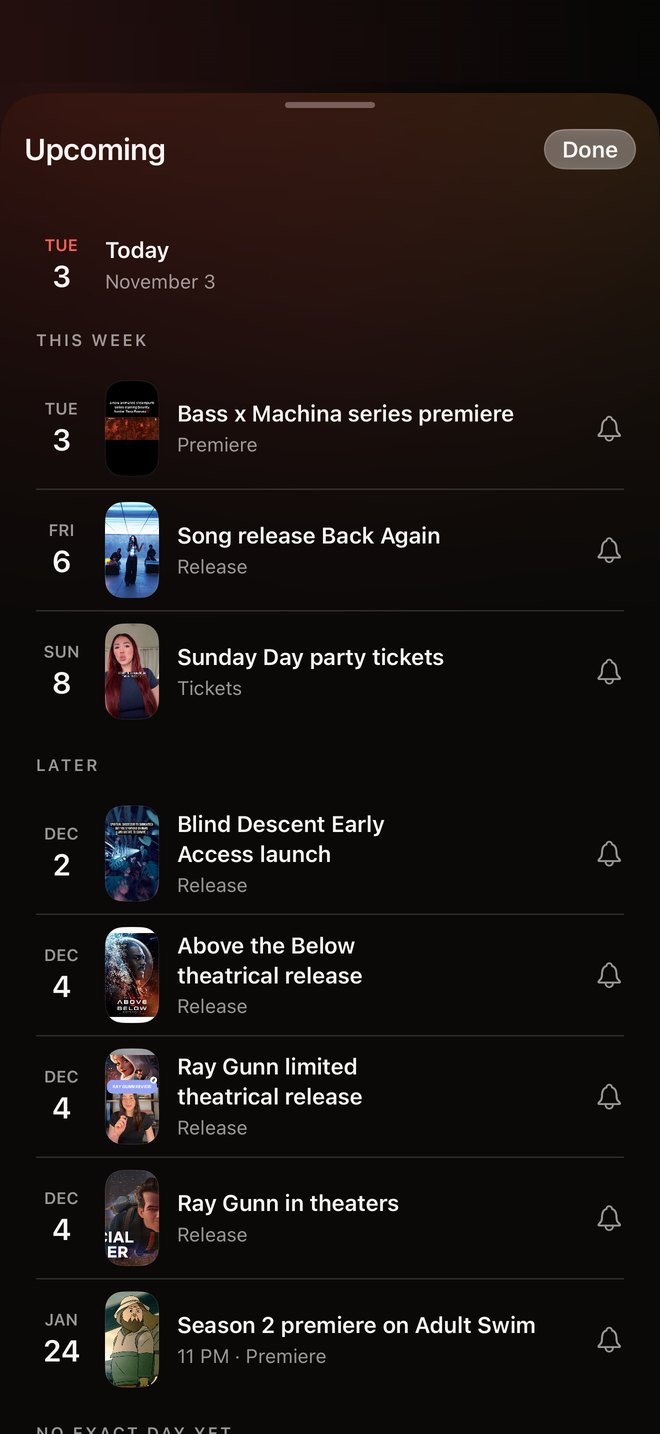
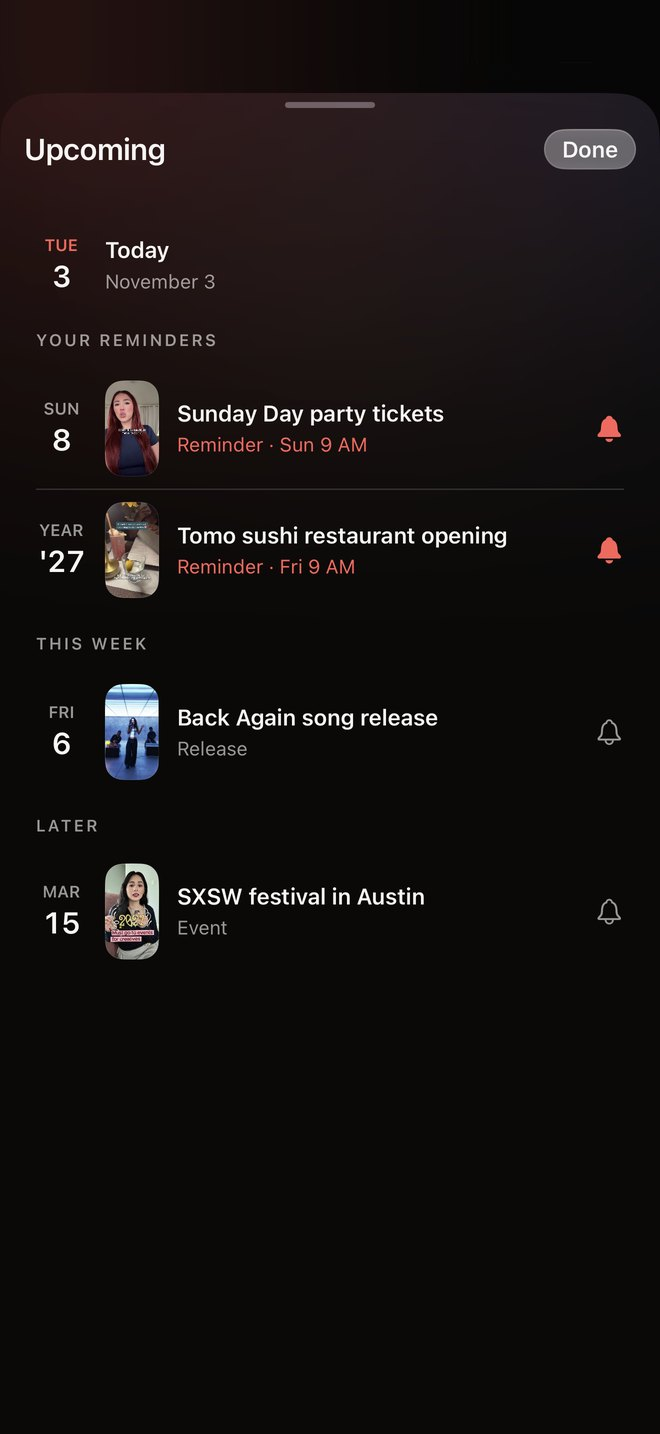
Site: new Upcoming screenshot (reminders, song release, SXSW)
Claude-Session: https://claude.ai/code/session_01CoJH9L2rTKwiawJYeYaAha

diff --git a/index.html b/index.html
@@ -693,7 +693,7 @@
           <li><span class="ri"><svg class="ic" viewBox="0 0 24 24" width="18" height="18" fill="none" stroke="currentColor" stroke-width="1.8" stroke-linecap="round" stroke-linejoin="round" aria-hidden="true"><path d="M20 14.5A8 8 0 0 1 9.5 4a8 8 0 1 0 10.5 10.5z"/></svg></span><div><h3>Never noisy</h3><p>One nudge a day at most, never at night, and only the kinds you turn on.</p></div></li>
         </ul>
       </div>
-      <div class="stagemini"><div class="phone mini"><div class="screen"><div class="app shotapp"><img class="shot" src="img/screens/upcoming.jpg" alt="Rook Upcoming: premieres, releases and ticket drops from your saves, by date" width="660" height="1434"><div class="ui still shotbar" aria-hidden="true"><div class="sb"><b>9:41</b><span><svg viewBox="0 0 20 12" width="19" height="12" fill="currentColor" aria-hidden="true"><rect x="0" y="8" width="3.2" height="4" rx="1"/><rect x="5.4" y="5.5" width="3.2" height="6.5" rx="1"/><rect x="10.8" y="3" width="3.2" height="9" rx="1"/><rect x="16.2" y="0" width="3.2" height="12" rx="1"/></svg><svg viewBox="0 0 18 13" width="17" height="12" fill="currentColor" aria-hidden="true"><path d="M9 2.2c2.6 0 5 1 6.8 2.7l1.3-1.4C14.9 1.4 12 .2 9 .2S3.1 1.4.9 3.5l1.3 1.4C4 3.2 6.4 2.2 9 2.2zm0 4c1.5 0 2.9.6 4 1.5l1.3-1.4A7.9 7.9 0 0 0 9 4.2c-2 0-3.9.8-5.3 2.1L5 7.7c1.1-.9 2.5-1.5 4-1.5zm0 4c.6 0 1.1.2 1.5.6L9 12.4l-1.5-1.6c.4-.4.9-.6 1.5-.6z"/></svg><i class="batt"><i></i></i></span></div></div></div></div></div></div>
+      <div class="stagemini"><div class="phone mini"><div class="screen"><div class="app shotapp"><img class="shot" src="img/screens/upcoming.jpg" alt="Rook Upcoming: your reminders, plus events and releases from your saves, by date" width="660" height="1434"><div class="ui still shotbar" aria-hidden="true"><div class="sb"><b>9:41</b><span><svg viewBox="0 0 20 12" width="19" height="12" fill="currentColor" aria-hidden="true"><rect x="0" y="8" width="3.2" height="4" rx="1"/><rect x="5.4" y="5.5" width="3.2" height="6.5" rx="1"/><rect x="10.8" y="3" width="3.2" height="9" rx="1"/><rect x="16.2" y="0" width="3.2" height="12" rx="1"/></svg><svg viewBox="0 0 18 13" width="17" height="12" fill="currentColor" aria-hidden="true"><path d="M9 2.2c2.6 0 5 1 6.8 2.7l1.3-1.4C14.9 1.4 12 .2 9 .2S3.1 1.4.9 3.5l1.3 1.4C4 3.2 6.4 2.2 9 2.2zm0 4c1.5 0 2.9.6 4 1.5l1.3-1.4A7.9 7.9 0 0 0 9 4.2c-2 0-3.9.8-5.3 2.1L5 7.7c1.1-.9 2.5-1.5 4-1.5zm0 4c.6 0 1.1.2 1.5.6L9 12.4l-1.5-1.6c.4-.4.9-.6 1.5-.6z"/></svg><i class="batt"><i></i></i></span></div></div></div></div></div></div>
     </section>
 
     <section class="pro reveal" id="pro" aria-label="Rook Pro">
